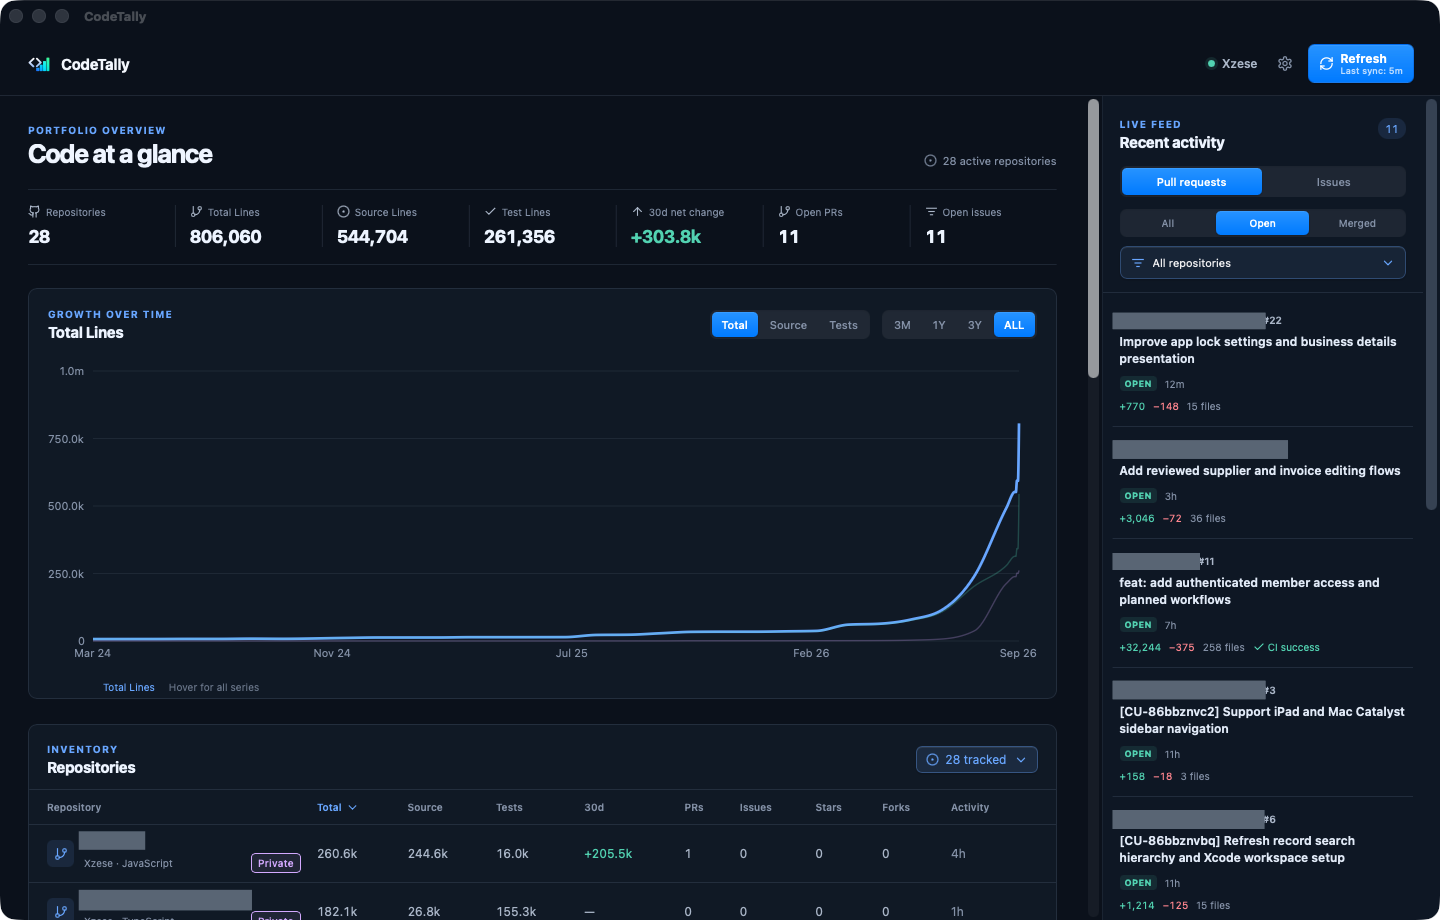
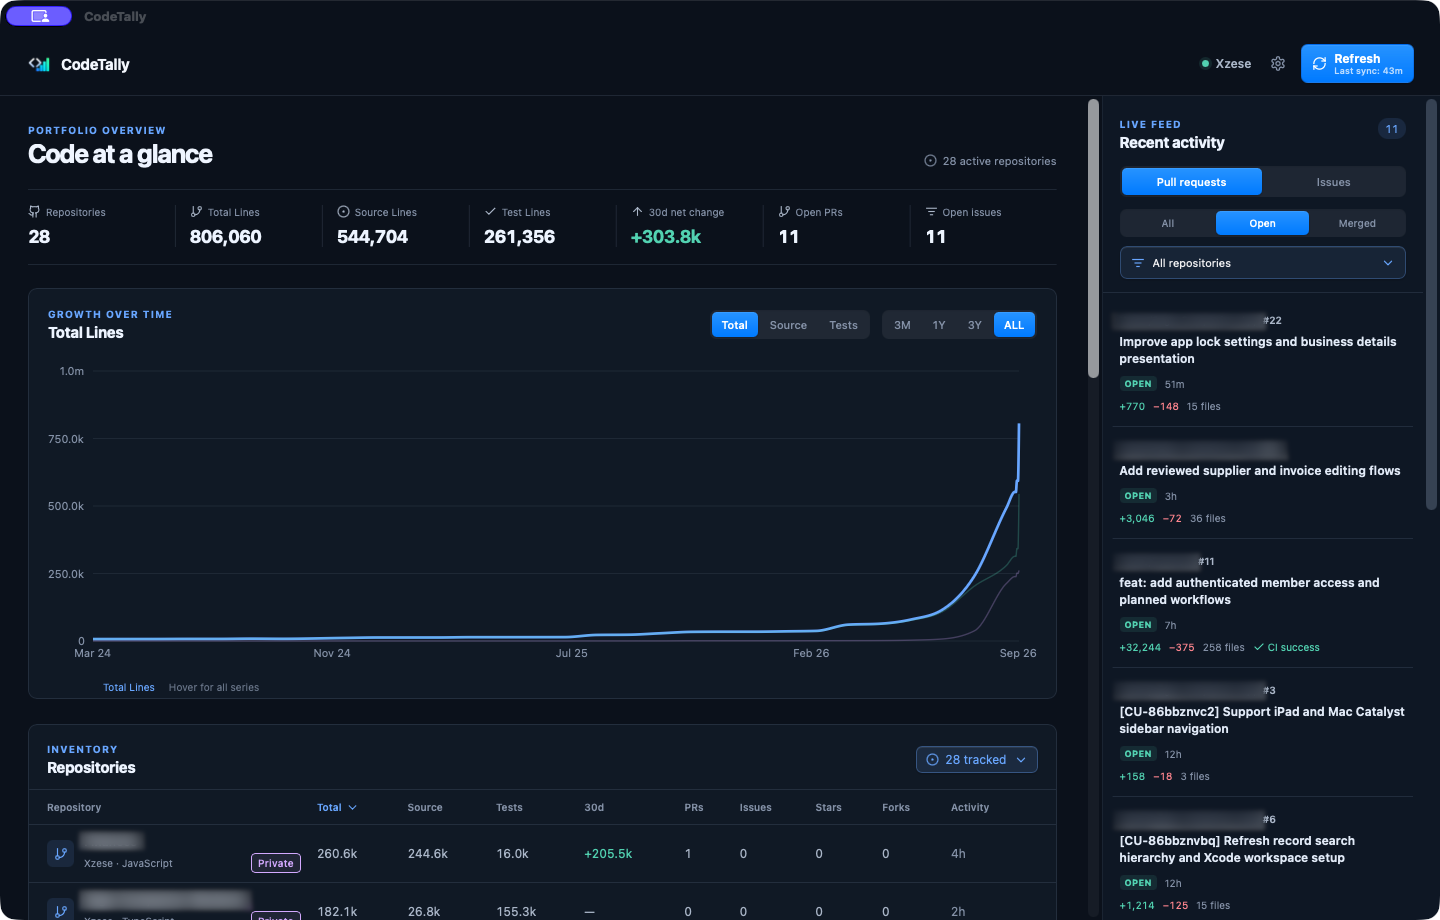
Blur sensitive content in captured screenshots
- Apply soft blurred masks to private repository names and explicit redactions
- Update screenshot helper documentation and sanitized reference images

diff --git a/scripts/capture-screenshots.swift b/scripts/capture-screenshots.swift
@@ -1,5 +1,6 @@
 #!/usr/bin/env swift
 import AppKit
+import CoreImage
 import Foundation
 import Vision
 
@@ -83,7 +84,7 @@ Options:
   --window-id ID              Capture a particular window; otherwise locate CodeTally's main window.
   --screen-rect X,Y,W,H        Capture a screen rectangle in macOS screen points.
   --menu-bar                  Allow a names-free menu-bar crop (requires --screen-rect or --input with --crop).
-  --mask X,Y,W,H              Additional solid mask in OUTPUT PIXELS, top-left origin; repeatable.
+  --mask X,Y,W,H              Additional blurred mask in OUTPUT PIXELS, top-left origin; repeatable.
   --extra-sensitive-file PATH Additional identifiers, one per line (keep this file outside the repo).
   --output PATH               Sanitized PNG destination; must be under docs/screenshots.
   --list-windows              Print all CodeTally window IDs, layers, and bounds, never titles.
@@ -251,14 +252,33 @@ do {
         try fail("Could not create redaction image.")
     }
     let bounds = CGRect(x: 0, y: 0, width: original.width, height: original.height)
-    context.draw(original, in: bounds)
-    context.setFillColor(CGColor(red: 0.28, green: 0.32, blue: 0.38, alpha: 1))
-    for region in detected { context.fill(region.intersection(bounds)) }
+    context.setFillColor(CGColor(gray: 0, alpha: 1))
+    context.fill(bounds)
+    context.setFillColor(CGColor(gray: 1, alpha: 1))
+    let blurred = CIImage(cgImage: original).clampedToExtent()
+        .applyingFilter("CIGaussianBlur", parameters: [kCIInputRadiusKey: 8.0])
+        .cropped(to: bounds)
+    guard let blurredImage = CIContext().createCGImage(blurred, from: bounds) else {
+        try fail("Could not create blurred redaction image.")
+    }
+    func blurRegion(_ region: CGRect) {
+        context.fill(region.intersection(bounds))
+    }
+    for region in detected { blurRegion(region) }
     for mask in masks {
         guard bounds.contains(mask) else { try fail("An explicit mask falls outside the output image.") }
-        context.fill(CGRect(x: mask.minX, y: CGFloat(original.height) - mask.maxY, width: mask.width, height: mask.height))
+        blurRegion(CGRect(x: mask.minX, y: CGFloat(original.height) - mask.maxY, width: mask.width, height: mask.height))
     }
-    guard let sanitized = context.makeImage() else { try fail("Could not finalize masked image.") }
+    guard let maskImage = context.makeImage() else { try fail("Could not finalize redaction mask.") }
+    let softMask = CIImage(cgImage: maskImage).clampedToExtent()
+        .applyingFilter("CIGaussianBlur", parameters: [kCIInputRadiusKey: 2.0])
+        .cropped(to: bounds)
+    let composite = CIImage(cgImage: blurredImage).applyingFilter("CIBlendWithMask", parameters: [
+        kCIInputBackgroundImageKey: CIImage(cgImage: original), kCIInputMaskImageKey: softMask
+    ])
+    guard let sanitized = CIContext().createCGImage(composite, from: bounds) else {
+        try fail("Could not finalize masked image.")
+    }
     guard try sensitiveRegions(sanitized, expressions).isEmpty else {
         try fail("Post-mask OCR still detected identifiers. No output written; add explicit --mask regions.")
     }

diff --git a/README.md b/README.md
@@ -230,7 +230,7 @@ Replace `X,Y,WIDTH,HEIGHT` with the screen-point rectangle enclosing only CodeTa
 
 To process a screenshot you already took, use `--input /path/to/screenshot.png --crop X,Y,WIDTH,HEIGHT --output docs/screenshots/menu-pull-requests.png`. The optional crop uses input-image pixels from the top-left corner. Add `--menu-bar` for an icon-only crop without repository names. This mode does not need Screen Recording permission and leaves the original file untouched.
 
-The helper copies SQLite and its WAL to a private temporary directory, verifies the copy, and uses local Vision OCR to mask private repository names and their full `owner/repository` references. Public repository names and standalone owners remain visible. Identical private/public repository names are also masked because OCR cannot distinguish them. The live database is untouched. Temporary raw captures and database copies are deleted when the script finishes; only flattened PNGs are written under `docs/screenshots`. Public/Private labels and numeric data remain visible.
+The helper copies SQLite and its WAL to a private temporary directory, verifies the copy, and uses local Vision OCR to apply soft blurred masks to private repository names and their full `owner/repository` references. Public repository names and standalone owners remain visible. Identical private/public repository names are also masked because OCR cannot distinguish them. The live database is untouched. Temporary raw captures and database copies are deleted when the script finishes; only flattened PNGs are written under `docs/screenshots`. Public/Private labels and numeric data remain visible.
 
 Inspect each output before publishing: OCR can miss clipped or unusual text. Repeat `--mask X,Y,WIDTH,HEIGHT` to cover missed regions in output-image pixels (top-left origin). `--extra-sensitive-file PATH` adds identifiers from a local text file, one per line; keep that file outside the repository. Titles and other content remain visible unless they match an identifier or explicit mask. Capture and `--audit-input` both check for known identifiers, but an OCR pass does not replace visual review.
 
